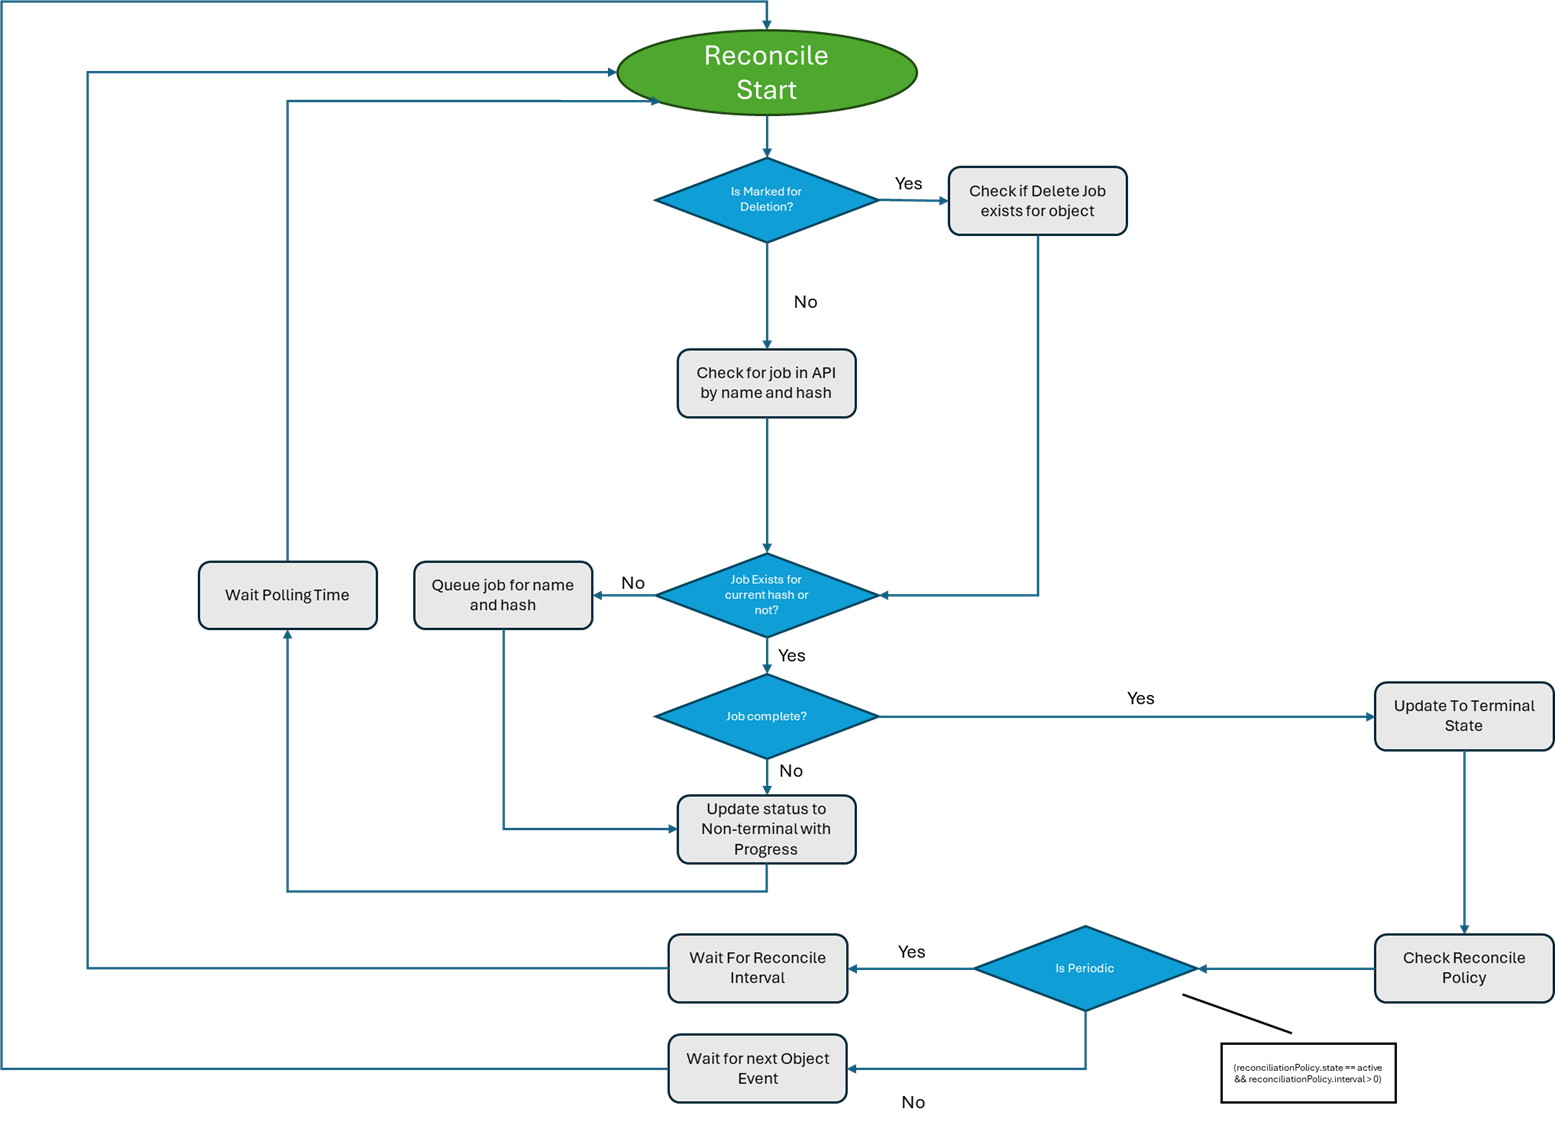
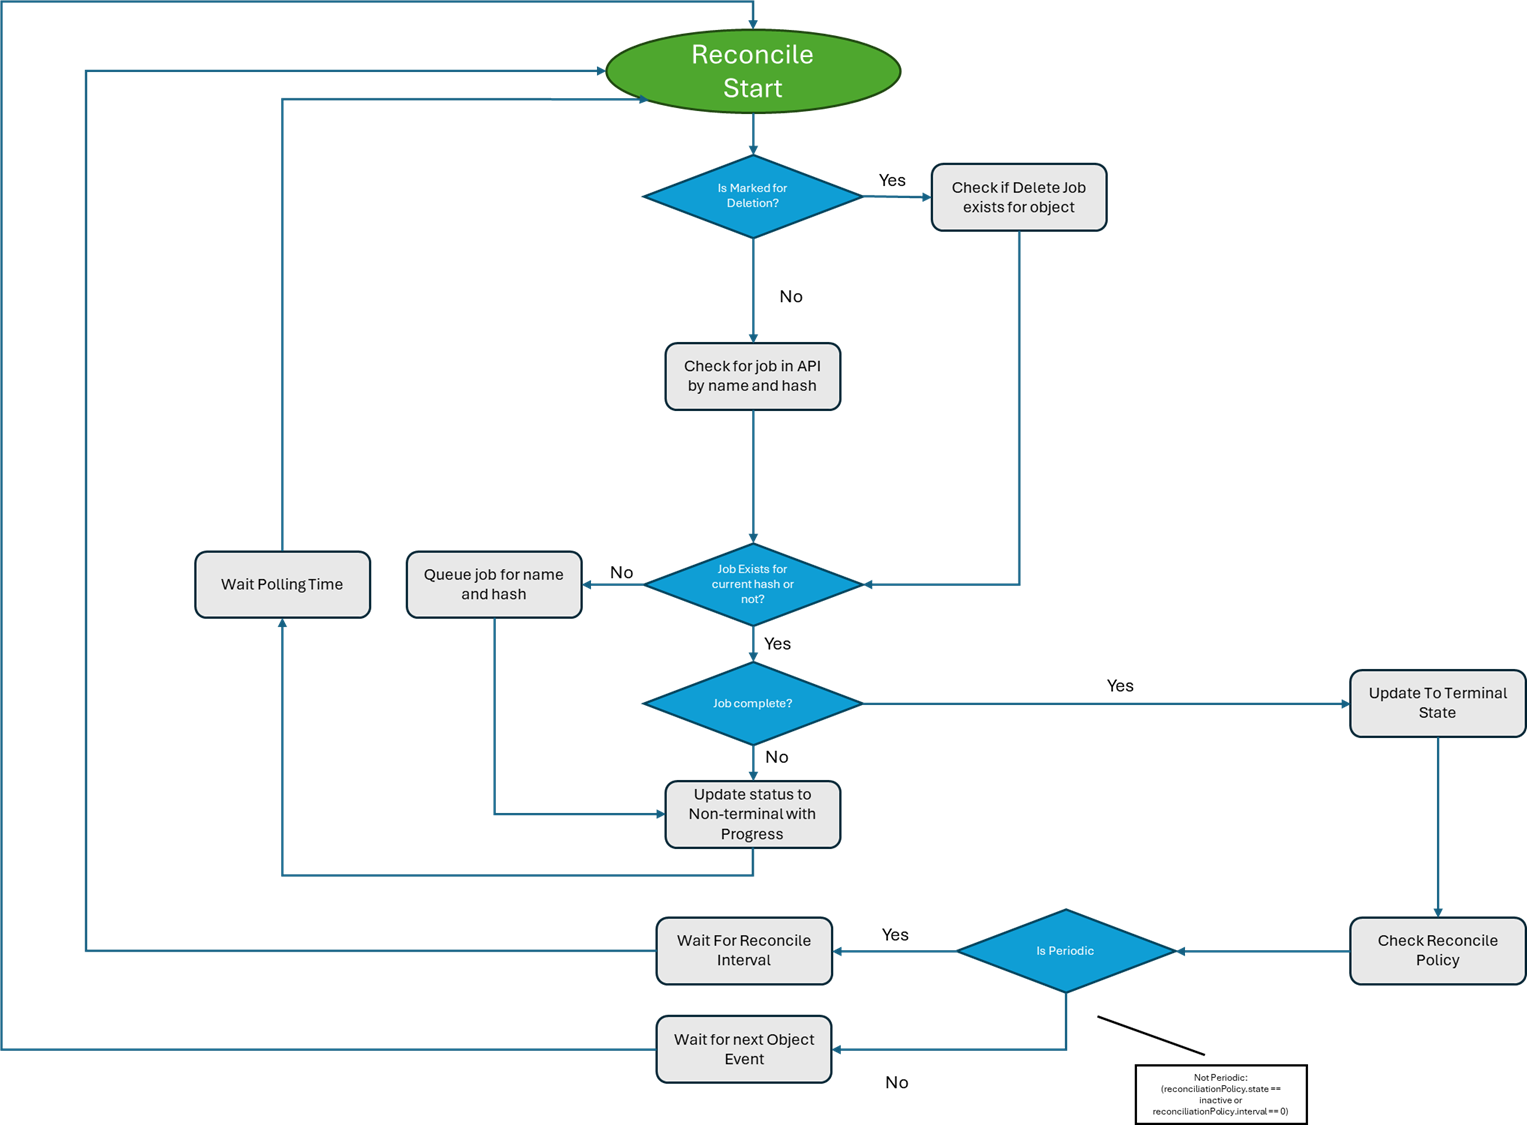
refactor doc

diff --git a/docs/symphony-book/build_deployment/symphony_mode.md b/docs/symphony-book/build_deployment/symphony_mode.md
@@ -1,0 +1,60 @@
+# Symphony Launch Mode
+
+_(last edit: 4/25/2024)_
+
+Symphony typically runs as a Kubernetes controller that operates Symphony CRDs. When running as a Kubernetes controller, Symphony delegates all state management of these CRDs to Kubernetes, and it integrates with Kubernetes reconciliation loop, uses webhooks to invoke Symphony API when the state of these objects change. So, Symphony Kubernetes controller is a very thin layer hooking up to Kubernetes API server, while all Symphony business logic resides behind Symphony API. Using the same architecture, we allow Symphony to run natively as an [Azure resource provider](https://learn.microsoft.com/azure/azure-resource-manager/management/resource-providers-and-types) that forwards external resource operations (such as update and remove) to Symphony API, as shown in the following diagram.
+
+![Architecture](../images/architecture.png)
+
+However, when running in a standalone mode, Symphony takes over object state management by itself. Symphony allows object state to be stored in any supported data storage via a state provider and it runs a state reconciliation loop that periodically generates a reconciliation job. Symphony listens to these jobs and invokes corresponding APIs for state reconciliation. This separation of job creation and job execution allows Symphony to handle both automatic reconciliation as well as on-demand reconciliation using the same job manager.
+
+## State reconciliation flows
+
+### Kubernetes mode
+
+Under Kubernetes mode, users interact with Symphony Kubernetes CRDs using Kubernetes APIs and tools. Symphony controller queries Symphony API (via `/queue GET`), calculates the deployment spec, and check its parity, then decide if a new reconciliation job needs to be queued. 
+
+If requeue is needed, Symphony controller queues a new deployment job through the `/queue POST` route. The queued job is forward to a event bus, to which a [job vendor](../vendors/job.md) subscribes. When a reconcile job is received, the job vendor uses the Symphony deployment spec generated in Symphony controller and calls the `/reconcile` route of a solution vendor.
+
+And Symphony controller exposes fine-grained reonciliation policy control to let users decide how to reconciliate when current spec is converged to termination state. 
+
+In target and instance k8s spec, users can define an optional property - reconciliationPolicy.
+
+```yaml
+spec:
+    reconciliationPolicy:
+        state: <active or inactive>
+        interval: <optional, e.g. 1m>
+```
+
+By default, Symphony controller will use periodic reconciliation policy. If the caller doesn't set `reconciliationPolicy`, or doesn't explicitly specify `reconciliationPolicy.interval`, the default interval will be `30m`. 
+
+The caller can disable the periodic reconciliation policy by setting `reconciliationPolicy.interval = 0` or `reconciliationPolicy.state = 'inactive'`.
+
+Whenever an instance or a target is changed, The generation is bumped by the kubernetes API server which in turn triggers a reconciliation on the controllers. We then go through the following steps,
+
+![img](../images/k8s-reconciler.png)
+
+### Standalone mode
+
+When running under the standalone mode, Symphony REST API queues reconciliation jobs when it updates Symphony objects. In addition, the job vendor is configured to periodically trigger reconciliation events by itself at configured intervals.
+
+Once the job vendor subscribes the new reconciliation event, it will generate the deployment spec and calls the `/reconcile` route of a solution vendor.
+
+And under standalone mode, the reconciliation policy is not configured on individual resource, which is different from Kubernetes mode.
+
+![no-k8s](../images/no-k8s.png)
+
+## Launch Symphony in standalone mode
+
+Symphony runs as a single process in standalone mode. To launch Symphony in standalone mode, simply launch the `symphony-api` binary with a configuration file and an optional tracing level switch (such as `Error`, `Info` and `Debug`):
+
+```bash
+./symphony-api -c ~/symphony-api-no-k8s.json -l Debug
+```
+
+Once launched, you can access Symphony's [REST API](../api/_overview.md) using any web clients.
+
+## Next steps
+
+* [Quick start - launch a Redis container with standalone Symphony](../get-started/deploy_redis_no_k8s.md)

diff --git a/docs/symphony-book/managers/solution-manager.md b/docs/symphony-book/managers/solution-manager.md
@@ -62,26 +62,3 @@ Before a deployment step is sent to a provider, Symphony checks the provider's v
 ## Retry
 
 The solution manager has built-in retry logic to attempt a deployment step three times at a fixed interval (5 seconds) before giving up. In future versions, this retry logic will be extended to allow configurable retry counts and backoff delays.
-
-## Integration with K8S reconciliation
-
-In production, symphony-api will deploy with symphony-k8s. Symphony-k8s leverages k8s reonciliation loop for solution-management. 
-
-And Symphony-k8s exposes fine-grained reonciliation policy control to let callers decide how to reconciliate when current spec is converged to termination state. 
-
-In target and instance k8s spec, caller can define an optional property - reconciliationPolicy.
-
-```yaml
-spec:
-    reconciliationPolicy:
-        state: <active or inactive>
-        interval: <optional, e.g. 1m>
-```
-
-By default, symphony-k8s will use periodic reconciliation policy, if the caller doesn't explicitly `reconciliationPolicy.interval`, and doesn't set `reconciliationPolicy.state = 'inactive'`, the default interval will be `30m`. 
-
-The caller can disable the periodic reconciliation policy by setting `reconciliationPolicy.interval = 0` or `reconciliationPolicy.state = 'inactive'`.
-
-Whenever an instance or a target is changed, The generation is bumped by the kubernetes API server which in turn triggers a reconciliation on the controllers. We then go through the following steps,
-
-![img](../images/k8s-reconciler.png)

diff --git a/docs/symphony-book/managers/_overview.md b/docs/symphony-book/managers/_overview.md
@@ -17,7 +17,7 @@ In Symphony's [HB-MVP pattern](https://www.linkedin.com/pulse/hb-mvp-design-patt
 
   These managers implement CRUD operations on corresponding object types, and they are hosted by corresponding vendors such as the devices vendor and target vendor. These vendors collectively offer Symphony REST API to manage Symphony objects.
 
-  When hosted on Kubernetes, such object operations are delegated to Kubernetes API. In such a case, users interact with Symphony objects through native Kubernetes API instead of through these REST API routes. For an example, see [Run Symphony in standalone mode](../build_deployment/standalone.md).
+  When hosted on Kubernetes, such object operations are delegated to Kubernetes API. In such a case, users interact with Symphony objects through native Kubernetes API instead of through these REST API routes. For an example, see [Run Symphony in kubernetes mode](../build_deployment/symphony_mode.md).
 
 * Solution manager
 
